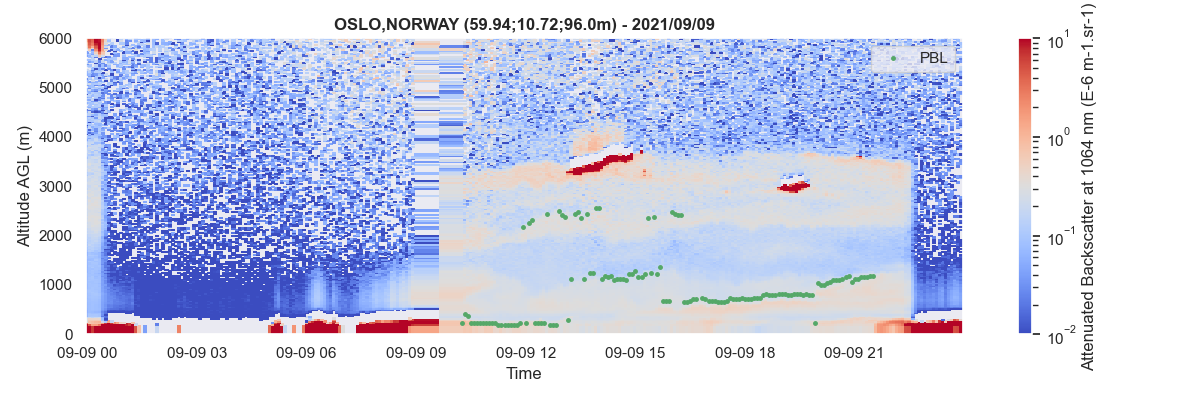
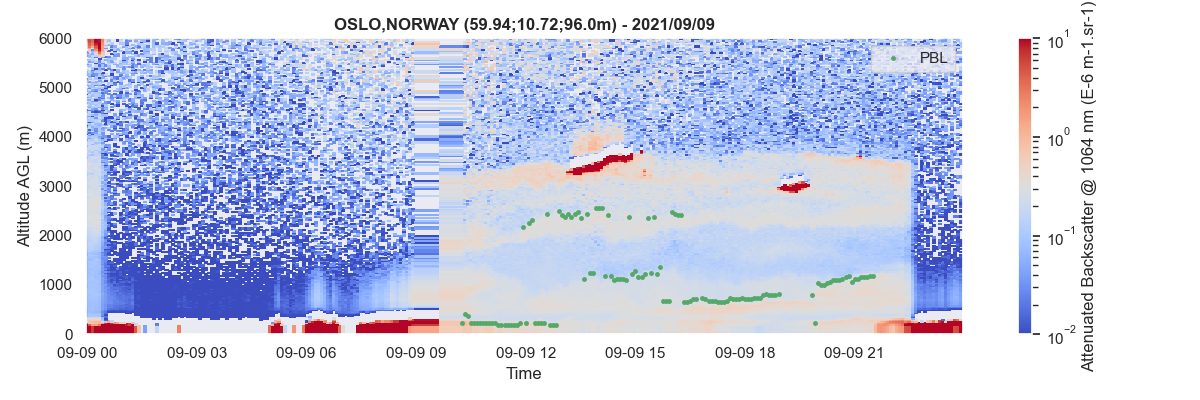
update figures

Changed region(s): [[0.8942, 0.24, 0.925, 0.93], [0.8942, 0.0, 0.925, 0.21], [0.6475, 0.72, 0.6783, 0.75]]

diff --git a/run/singleday_series.py b/run/singleday_series.py
@@ -8,131 +8,14 @@ import json
 import os
 import time
 
-import aprofiles as apro
 import numpy as np
 from tqdm import tqdm
 import xarray as xr
 
+import run
+
 BASE_DIR_IN = 'data/e-profile'
 BASE_DIR_OUT = 'data/v-profiles'
-
-def aprofiles_workflow(path, instrument_types, verbose=False):
-    apro_reader = apro.reader.ReadProfiles(path)
-    profiles = apro_reader.read()
-
-    # do the rest if instrument_type in the list
-    if profiles.data.attrs['instrument_type'] in instrument_types:    
-
-        # extrapolation lowest layers
-        profiles.extrapolate_below(z=150., inplace=True)
-
-        # detection
-        profiles.foc(zmin_cloud=200.)
-        profiles.clouds(zmin=300., thr_noise=5., thr_clouds=4., verbose=verbose)
-        profiles.pbl(zmin=200., zmax=3000., under_clouds=False, min_snr=2., verbose=verbose)
-
-        # retrievals
-        profiles.inversion(zmin=4000., zmax=6000., remove_outliers=True, method="forward", verbose=verbose)
-        profiles.write(base_dir=BASE_DIR_OUT)
-
-def make_calendar(yyyy, mm, base_dir):
-    # one calendar, per month
-    calname = 'cal.json'
-    with open(os.path.join(base_dir, yyyy, mm, calname), 'w') as json_file:
-        json.dump({}, json_file)
-
-def add_to_calendar(path, yyyy, mm, dd, base_dir):
-    # calendar collects the number of inversions with no low-level clouds (<6km) at each station
-    # for each station, write number of each scene class (aer, cloud<6km, cloud>6km, )
-    
-    # read data
-    print('---------------------------------')
-    print(path)
-    ds = xr.open_dataset(path)
-
-    # counts scenes
-    scene_classes = ['low_cloud', 'mid_cloud', 'high_cloud', 'foc', 'aer']
-    scene_counts = {}
-    for scene_class in scene_classes:
-        scene_counts[scene_class] = len(ds.scene.data[ds.scene.data == scene_class])
-    scene_counts['total'] = len(ds.scene.data)
-
-    # open current calendar
-    calname = 'cal.json'
-    with open(os.path.join(base_dir, yyyy, mm, calname), 'r') as json_file:
-        data = json.load(json_file)
-    json_file.close()        
-
-    # add new data to calendar data
-    station_id = ds.attrs['wigos_station_id']
-    if station_id not in data:
-        data[station_id] = {}
-    data[station_id][dd] = scene_counts
-
-    # write new calendar
-    with open(os.path.join(base_dir, yyyy, mm, calname), 'w') as json_file:
-        json.dump(data, json_file)
-
-def make_map(yyyy, mm, dd, base_dir):
-    # one map, per day, which collects the maximum extinction with no low-level clouds (<6km) at each station
-    mapname = 'map.json'
-    with open(os.path.join(base_dir, yyyy, mm, dd, mapname), 'w') as json_file:
-        json.dump({}, json_file)
-
-def add_to_map(path, yyyy, mm, dd, base_dir):
-    # map collects the maximum extinction value with no low-level clouds (<6km) at each station at a hourly resolution
-    # for each station, write an array with extinction values, and array with scenes for each hour of the day
-    
-    # read data
-    ds = xr.open_dataset(path)
-
-    # calculate the max extinction and determine the scene for each hour of the day
-    # need to convert time (from int to datetime) in order to use the resample method from xarray
-    ds = ds.assign_coords(time = ds.time.data.astype("datetime64[ms]"))
-
-    # extinction for each hour
-    max_ext_profiles = ds.extinction.resample(time="1H").max().data
-
-    # take the maximum value in each profile
-    max_ext = np.nanmax(max_ext_profiles, axis=1)
-
-    # scene for each hour
-    # attribute a weight to each scene in order to prioritize the scenes
-    scene_weights = {'foc': 4, 'low_cloud': 3, 'mid_cloud': 2, 'high_cloud': 1, 'aer': 0}
-    scene = np.asarray(ds.scene.data)
-    for scene_weight in scene_weights.keys():
-        print(scene_weight)
-        scene[scene==scene_weight] = scene_weights[scene_weight]
-
-    # creates dataarrays in order to resample with xarray method
-    ds["weight_scene"] = ('time', scene)
-    # takes the highest weight for resampled data
-    max_weight = ds.scene.resample(time="1H").max().data
-
-    # reverse dictionnary
-    weight_scenes = {v: k for k, v in scene_weights.items()}
-    max_scene = max_weight
-    for weight_scene in weight_scenes.keys():
-        max_scene[max_scene==weight_scene] = weight_scenes[weight_scene]
-
-    # open current map
-    mapname = 'map.json'
-    with open(os.path.join(base_dir, yyyy, mm, dd, mapname), 'r') as json_file:
-        data = json.load(json_file)
-    json_file.close()        
-
-    # add new data to calendar data
-    station_id = ds.attrs['wigos_station_id']
-    if station_id not in data:
-        data[station_id] = {}
-    data[station_id][dd] = {
-        'ext': max_ext.tolist(),
-        'scene': max_scene.tolist()
-    }
-
-    # write new map
-    with open(os.path.join(base_dir, yyyy, mm, dd, mapname), 'w') as json_file:
-        json.dump(data, json_file)
 
 def _main():
 
@@ -152,32 +35,32 @@ def _main():
     # data processing
     for i in (tqdm(range(len(onlyfiles)), desc=date)):
         path = os.path.join(datepath, onlyfiles[i])
-        aprofiles_workflow(path, instrument_types, verbose=False)
+        run.workflow.workflow(path, instrument_types, BASE_DIR_IN, verbose=False)
     """
 
     # list all files in out directory
-    datepath = os.path.join(BASE_DIR_OUT, yyyy, mm, dd)
+    datepath = os.path.join(BASE_DIR_OUT, yyyy, mm, dd, 'profiles')
     onlyfiles = [f for f in os.listdir(datepath) if os.path.isfile(os.path.join(datepath, f))]
     
     # create calendar
-    calname = 'cal.json'
+    calname = '{}-{}-cal.json'.format(yyyy, mm)
     if not os.path.exists(os.path.join(BASE_DIR_OUT, yyyy, mm, 'calendar', calname)):
-        make_calendar(yyyy, mm, base_dir=BASE_DIR_OUT)
+        run.json_calendar.make_calendar(BASE_DIR_OUT, yyyy, mm, calname)
 
     # add to calendar
     for i in (tqdm(range(len(onlyfiles)), desc='calendar')):
-        path = os.path.join(BASE_DIR_OUT, yyyy, mm, dd, onlyfiles[i])
-        add_to_calendar(path, yyyy, mm, dd, base_dir=BASE_DIR_OUT)
-    
+        fn = os.path.join(BASE_DIR_OUT, yyyy, mm, dd, 'profiles', onlyfiles[i])
+        run.json_calendar.add_to_calendar(fn, BASE_DIR_OUT, yyyy, mm, dd, calname)
+
     # create map
-    mapname = 'map.json'
+    mapname = '{}-{}-{}-cal.json'.format(yyyy, mm, dd)
     if not os.path.exists(os.path.join(BASE_DIR_OUT, yyyy, mm, dd, mapname)):
-        make_map(yyyy, mm, dd, base_dir=BASE_DIR_OUT)
-    
+        run.json_map.make_map(BASE_DIR_OUT, yyyy, mm, dd, mapname)
+
     # add to map
     for i in (tqdm(range(len(onlyfiles)), desc='calendar')):
-        path = os.path.join(BASE_DIR_OUT, yyyy, mm, dd, onlyfiles[i])
-        add_to_map(path, yyyy, mm, dd, base_dir=BASE_DIR_OUT)
+        fn = os.path.join(BASE_DIR_OUT, yyyy, mm, dd, 'profiles', onlyfiles[i])
+        run.json_map.add_to_map(fn, BASE_DIR_OUT, yyyy, mm, dd, mapname)
     
 if __name__ == "__main__":
     _main()

diff --git a/run/utils/json_map.py b/run/utils/json_map.py
@@ -1,0 +1,71 @@
+#!/usr/bin/env python3
+
+# @author Augustin Mortier
+# @email augustinm@met.no
+# @desc A-Profiles - Code for creating map json file to be used in V-Profiles
+
+import json
+import os
+
+import numpy as np
+import xarray as xr
+
+
+def make_map(base_dir, yyyy, mm, dd, mapname):
+    # one map, per day, which collects the maximum extinction with no low-level clouds (<6km) at each station
+    with open(os.path.join(base_dir, yyyy, mm, dd, mapname), 'w') as json_file:
+        json.dump({}, json_file)
+
+def add_to_map(fn, base_dir, yyyy, mm, dd, mapname):
+    # map collects the maximum extinction value with no low-level clouds (<6km) at each station at a hourly resolution
+    # for each station, write an array with extinction values, and array with scenes for each hour of the day
+    
+    # read data
+    ds = xr.open_dataset(fn)
+
+    # calculate the max extinction and determine the scene for each hour of the day
+    # need to convert time (from int to datetime) in order to use the resample method from xarray
+    ds = ds.assign_coords(time = ds.time.data.astype("datetime64[ms]"))
+
+    # extinction for each hour
+    max_ext_profiles = ds.extinction.resample(time="1H").max().data
+
+    # take the maximum value in each profile
+    max_ext = np.nanmax(max_ext_profiles, axis=1)
+
+    # scene for each hour
+    # attribute a weight to each scene in order to prioritize the scenes
+    scene_weights = {'foc': 4, 'low_cloud': 3, 'mid_cloud': 2, 'high_cloud': 1, 'aer': 0}
+    scene = np.asarray(ds.scene.data)
+    for scene_weight in scene_weights.keys():
+        scene[scene==scene_weight] = scene_weights[scene_weight]
+
+    # creates dataarrays in order to resample with xarray method
+    ds["weight_scene"] = ('time', scene)
+    # takes the highest weight for resampled data
+    max_weight = ds.scene.resample(time="1H").max().data
+
+    # reverse dictionnary
+    weight_scenes = {v: k for k, v in scene_weights.items()}
+    max_scene = max_weight
+    for weight_scene in weight_scenes.keys():
+        max_scene[max_scene==weight_scene] = weight_scenes[weight_scene]
+
+    # open current map
+    mapname = 'map.json'
+    with open(os.path.join(base_dir, yyyy, mm, dd, mapname), 'r') as json_file:
+        data = json.load(json_file)
+    json_file.close()        
+
+    # add new data to calendar data
+    station_id = ds.attrs['wigos_station_id']
+    if station_id not in data:
+        data[station_id] = {}
+    data[station_id][dd] = {
+        'ext': max_ext.tolist(),
+        'scene': max_scene.tolist()
+    }
+
+    # write new map
+    with open(os.path.join(base_dir, yyyy, mm, dd, mapname), 'w') as json_file:
+        json.dump(data, json_file)

diff --git a/run/utils/json_calendar.py b/run/utils/json_calendar.py
@@ -1,0 +1,46 @@
+#!/usr/bin/env python3
+
+# @author Augustin Mortier
+# @email augustinm@met.no
+# @desc A-Profiles - Code for creating calendar json file to be used in V-Profiles
+
+import json
+import os
+
+import xarray as xr
+
+
+def make_calendar(base_dir, yyyy, mm, calname):
+    # one calendar, per month
+    with open(os.path.join(base_dir, yyyy, mm, calname), 'w') as json_file:
+        json.dump({}, json_file)
+
+def add_to_calendar(fn, base_dir, yyyy, mm, dd, calname):
+    # calendar collects the number of inversions with no low-level clouds (<6km) at each station
+    # for each station, write number of each scene class (aer, cloud<6km, cloud>6km, )
+    
+    # read data
+    ds = xr.open_dataset(fn)
+
+    # counts scenes
+    scene_classes = ['low_cloud', 'mid_cloud', 'high_cloud', 'foc', 'aer']
+    scene_counts = {}
+    for scene_class in scene_classes:
+        scene_counts[scene_class] = len(ds.scene.data[ds.scene.data == scene_class])
+    scene_counts['total'] = len(ds.scene.data)
+
+    # open current calendar
+    calname = 'cal.json'
+    with open(os.path.join(base_dir, yyyy, mm, calname), 'r') as json_file:
+        data = json.load(json_file)
+    json_file.close()        
+
+    # add new data to calendar data
+    station_id = ds.attrs['wigos_station_id']
+    if station_id not in data:
+        data[station_id] = {}
+    data[station_id][dd] = scene_counts
+
+    # write new calendar
+    with open(os.path.join(base_dir, yyyy, mm, calname), 'w') as json_file:
+        json.dump(data, json_file)

diff --git a/main.py b/main.py
@@ -42,7 +42,7 @@ profiles.clouds(zmin=300, thr_noise=5, thr_clouds=4, verbose=True)
 profiles.pbl(zmin=200, zmax=3000, under_clouds=False, min_snr=2.0, verbose=True)
 
 # plot image
-# profiles.plot(zref='agl', zmax=6000., show_foc=True, show_clouds=True, show_pbl=True, log=True, vmin=1e-2, vmax=1e1)
+#profiles.plot(zref='agl', show_foc=False, show_clouds=True, show_pbl=False, log=True, vmin=1e-2, vmax=1e1)
 
 # plot single profile
 # datetime = np.datetime64('2021-09-09T19:25:00')
@@ -59,12 +59,12 @@ profiles.pbl(zmin=200, zmax=3000, under_clouds=False, min_snr=2.0, verbose=True)
 
 # forward
 profiles.inversion(
-    zmin=4000, zmax=6000, remove_outliers=True, method="forward", verbose=True
+    zmin=4000, zmax=6000, remove_outliers=False, method="forward", verbose=True
 )
-#profiles.plot(var="extinction", zmax=6000, vmin=0, vmax=5e-2)
+profiles.plot(var="extinction", zmax=6000, vmin=0, vmax=5e-2)
 #profiles.plot(var="mass_concentration:dust", zmax=6000, vmin=0, vmax=5e-2)
-profiles.plot('mass_concentration:dust', zmax=6000, vmin=0, vmax=100, cmap='Oranges')
-profiles.plot('mass_concentration:urban', zmax=6000, vmin=0, vmax=100, cmap='Reds')
+#profiles.plot('mass_concentration:dust', zmax=6000, vmin=0, vmax=100, cmap='Oranges')
+#profiles.plot('mass_concentration:urban', zmax=6000, vmin=0, vmax=100, cmap='Reds')
 # profiles.plot('pbl', ymin=0, ymax=3000)
 
 # # produce rayleigh profile

diff --git a/aprofiles/retrieval/extinction.py b/aprofiles/retrieval/extinction.py
@@ -288,7 +288,7 @@ def inversion(
     # creates dataarrays
     profiles.data["extinction"] = (("time","altitude"), np.asarray(ext) * 1e3)
     profiles.data["extinction"] = profiles.data.extinction.assign_attrs({
-        'long_name': "Extinction Coefficient at {} nm".format(int(wavelength)),
+        'long_name': "Extinction Coefficient @ {} nm".format(int(wavelength)),
         'method': "{} Klett".format(method.capitalize()),
         'units': "km-1",
         'time_avg': time_avg,
@@ -300,13 +300,13 @@ def inversion(
 
     profiles.data["aod"] = ("time", aod)
     profiles.data["aod"] = profiles.data.aod.assign_attrs({
-        'long_name': 'Aerosol Optical Depth',
+        'long_name': 'Aerosol Optical Depth @ {} nm'.format(int(wavelength)),
         'unit': ''
     })
 
     profiles.data["lidar_ratio"] = ('time', lr)
     profiles.data["lidar_ratio"] = profiles.data.lidar_ratio.assign_attrs({
-        'long_name': 'Lidar Ratio',
+        'long_name': 'Lidar Ratio @ {} nm'.format(int(wavelength)),
         'units': 'sr'
     })
     return profiles

diff --git a/run/utils/workflow.py b/run/utils/workflow.py
@@ -1,0 +1,26 @@
+#!/usr/bin/env python3
+
+# @author Augustin Mortier
+# @email augustinm@met.no
+# @desc A-Profiles - Standard workflow
+
+import aprofiles as apro
+
+def workflow(path, instrument_types, base_dir, verbose=False):
+    apro_reader = apro.reader.ReadProfiles(path)
+    profiles = apro_reader.read()
+
+    # do the rest if instrument_type in the list
+    if profiles.data.attrs['instrument_type'] in instrument_types:    
+
+        # extrapolation lowest layers
+        profiles.extrapolate_below(z=150., inplace=True)
+
+        # detection
+        profiles.foc(zmin_cloud=200.)
+        profiles.clouds(zmin=300., thr_noise=5., thr_clouds=4., verbose=verbose)
+        profiles.pbl(zmin=200., zmax=3000., under_clouds=False, min_snr=2., verbose=verbose)
+
+        # retrievals
+        profiles.inversion(zmin=4000., zmax=6000., remove_outliers=True, method="forward", verbose=verbose)
+        profiles.write(base_dir)

diff --git a/run/__init__.py b/run/__init__.py
@@ -1,0 +1,1 @@
+from .utils import json_calendar, json_map, workflow
